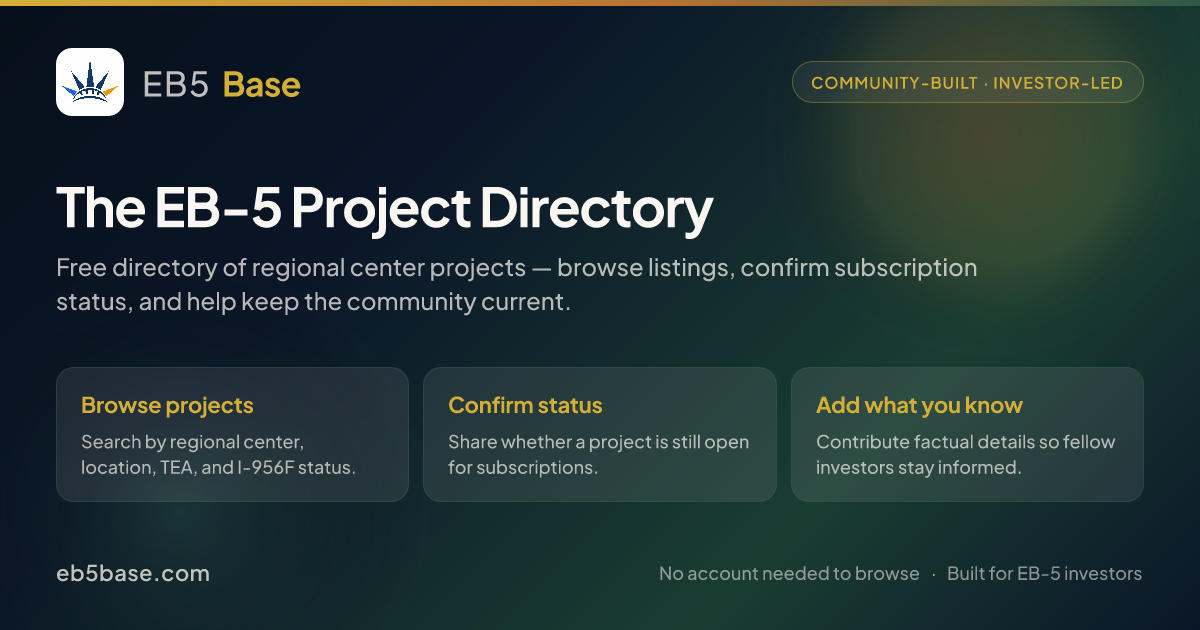
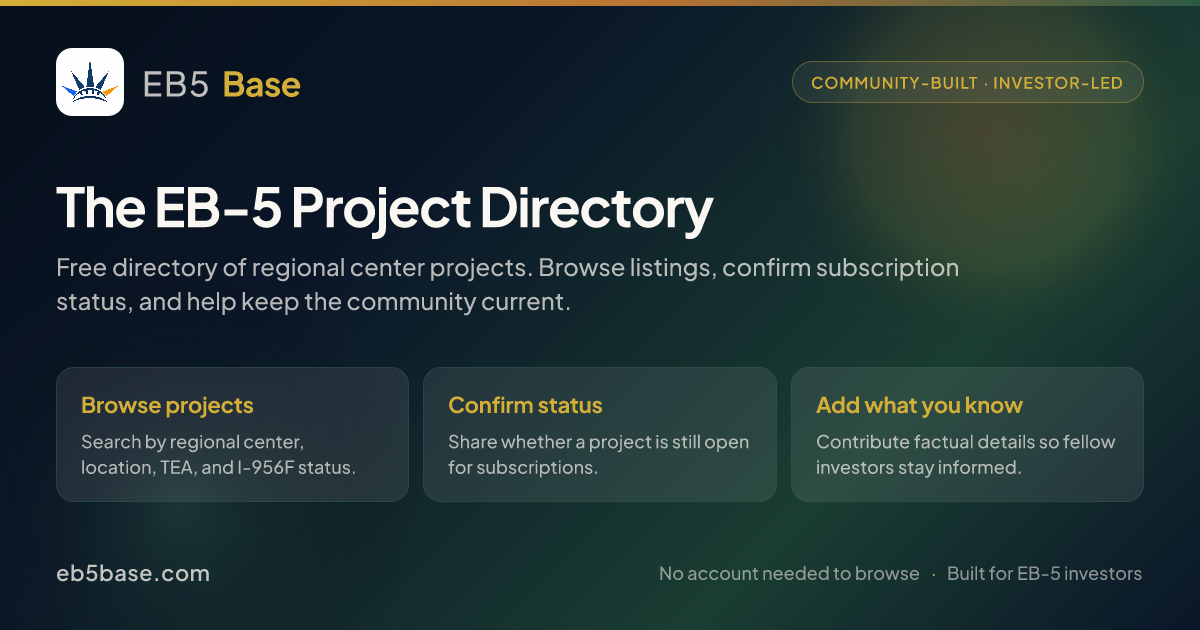
Remove em dashes and avoid compare wording
Drop em/en dashes from user-facing copy (including the public beta
banner) and replace AuthBrandPanel "compare" language so the product
does not sound like it recommends projects.

Changed region(s): [[0.4317, 0.3921, 0.8017, 0.4524]]

diff --git a/src/app/page.tsx b/src/app/page.tsx
@@ -58,7 +58,7 @@ const RC_STEPS = [
   },
   {
     title: 'Verify your RC',
-    body: 'Select your regional center and confirm you represent it. We review requests within 24–48 hours.',
+    body: 'Select your regional center and confirm you represent it. We review requests within 24-48 hours.',
     icon: (
       <svg xmlns="http://www.w3.org/2000/svg" className="h-7 w-7 text-copper" fill="none" viewBox="0 0 24 24" stroke="currentColor">
         <path strokeLinecap="round" strokeLinejoin="round" strokeWidth={1.5} d="M9 12l2 2 4-4m5.618-4.016A11.955 11.955 0 0112 2.944a11.955 11.955 0 01-8.618 3.04A12.02 12.02 0 003 9c0 5.591 3.824 10.29 9 11.622 5.176-1.332 9-6.03 9-11.622 0-1.042-.133-2.052-.382-3.016z" />

diff --git a/src/components/ClaimProjectButton.tsx b/src/components/ClaimProjectButton.tsx
@@ -72,7 +72,7 @@ export default function ClaimProjectButton({
         <p className="text-sm text-neutral/70 py-2">
           Review <strong>{project.name}</strong> and confirm the listing details are accurate.
           Once you claim this project, <strong>only verified representatives of this regional center</strong>{' '}
-          can edit the listing — please keep the project details accurate and up to date at all times.
+          can edit the listing. Please keep the project details accurate and up to date at all times.
           This project will show an <strong>RC verified</strong> badge on browse and detail pages.
         </p>
         <label className="flex items-start gap-2 cursor-pointer mt-4">

diff --git a/src/app/layout.tsx b/src/app/layout.tsx
@@ -29,13 +29,13 @@ export const metadata: Metadata = {
     locale: 'en_US',
     url: 'https://eb5base.com',
     siteName: 'EB5 Base',
-    title: 'EB5 Base — The EB-5 Project Directory',
+    title: 'EB5 Base - The EB-5 Project Directory',
     description:
       'Browse regional center projects, confirm subscription status, and keep fellow investors informed. Free, community-built.',
   },
   twitter: {
     card: 'summary_large_image',
-    title: 'EB5 Base — The EB-5 Project Directory',
+    title: 'EB5 Base - The EB-5 Project Directory',
     description:
       'Browse regional center projects, confirm subscription status, and keep fellow investors informed. Free, community-built.',
   },

diff --git a/src/app/about/page.tsx b/src/app/about/page.tsx
@@ -129,7 +129,7 @@ export default function AboutPage() {
             About <BrandWordmark variant="on-light" className="text-[0.88em] sm:text-[0.95em]" />
           </span>
         }
-        subtitle="A community directory for EB-5 investors and regional centers. We're in public beta — your feedback helps us improve (feedback@eb5base.com)."
+        subtitle="A community directory for EB-5 investors and regional centers. We're in public beta. Your feedback helps us improve (feedback@eb5base.com)."
       />
 
       <div className="max-w-4xl mx-auto px-4 py-10 space-y-6">

diff --git a/src/app/contact/page.tsx b/src/app/contact/page.tsx
@@ -28,7 +28,7 @@ export default function ContactPage() {
         <section className="card-elevated p-8 text-center">
           <h2 className="text-lg font-bold text-primary mb-2">Send feedback</h2>
           <p className="text-neutral/70 mb-6 text-sm">
-            Bug reports, wrong project data, UX suggestions — especially during our public beta.
+            Bug reports, wrong project data, UX suggestions, especially during our public beta.
           </p>
           <a
             href={`mailto:${FEEDBACK_EMAIL}?subject=EB5%20Base%20feedback`}

diff --git a/src/components/admin/AdminDuplicateQueue.tsx b/src/components/admin/AdminDuplicateQueue.tsx
@@ -160,7 +160,7 @@ export default function AdminDuplicateQueue() {
           <div>
             <h2 className="font-bold text-primary">{item.reported_name}</h2>
             <p className="text-sm text-neutral/60 mt-1">
-              Reported as duplicate of: {item.duplicate_names.join(', ') || '—'}
+              Reported as duplicate of: {item.duplicate_names.join(', ') || '-'}
               {' · '}
               {item.entity_type === 'project' ? 'Project' : 'Regional center'}
               {' · '}

diff --git a/src/app/timeline/TimelineContent.tsx b/src/app/timeline/TimelineContent.tsx
@@ -94,7 +94,7 @@ export default function TimelineContent() {
       <PageHero
         eyebrow="Your contributions"
         title="My Timeline"
-        subtitle="Confirmations, projects, and reports — everything you've added to the community directory."
+        subtitle="Confirmations, projects, and reports: everything you've added to the community directory."
       />
 
       <div className="max-w-3xl mx-auto px-4 py-8">

diff --git a/src/components/BetaBanner.tsx b/src/components/BetaBanner.tsx
@@ -6,7 +6,7 @@ export default function BetaBanner() {
   return (
     <div className="bg-accent/15 border-b border-accent/30 text-center px-4 py-2 text-sm text-neutral/80">
       <span className="font-medium text-primary">Public beta</span>
-      {' — '}
+      {'. '}
       We&apos;re improving quickly.{' '}
       <Link href={`mailto:${FEEDBACK_EMAIL}`} className="link link-secondary font-medium">
         Send feedback

diff --git a/src/lib/og.tsx b/src/lib/og.tsx
@@ -220,7 +220,7 @@ export async function createOgImage() {
               maxWidth: 980,
             }}
           >
-            Free directory of regional center projects — browse listings, confirm
+            Free directory of regional center projects. Browse listings, confirm
             subscription status, and help keep the community current.
           </div>
         </div>

diff --git a/src/components/AuthBrandPanel.tsx b/src/components/AuthBrandPanel.tsx
@@ -39,7 +39,7 @@ export default function AuthBrandPanel({
       <div className="space-y-4">
         <div className="flex items-center gap-3">
           <CheckIcon />
-          <span>Browse and compare EB-5 projects</span>
+          <span>Browse EB-5 project listings</span>
         </div>
         <div className="flex items-center gap-3">
           <CheckIcon />

diff --git a/src/app/opengraph-image.tsx b/src/app/opengraph-image.tsx
@@ -1,7 +1,7 @@
 import { createOgImage, OG_CONTENT_TYPE, OG_SIZE } from '@/lib/og';
 
 export const runtime = 'nodejs';
-export const alt = 'EB5 Base — community-built EB-5 project directory';
+export const alt = 'EB5 Base - community-built EB-5 project directory';
 export const size = OG_SIZE;
 export const contentType = OG_CONTENT_TYPE;
 

diff --git a/src/app/twitter-image.tsx b/src/app/twitter-image.tsx
@@ -1,7 +1,7 @@
 import { createOgImage, OG_CONTENT_TYPE, OG_SIZE } from '@/lib/og';
 
 export const runtime = 'nodejs';
-export const alt = 'EB5 Base — community-built EB-5 project directory';
+export const alt = 'EB5 Base - community-built EB-5 project directory';
 export const size = OG_SIZE;
 export const contentType = OG_CONTENT_TYPE;
 
